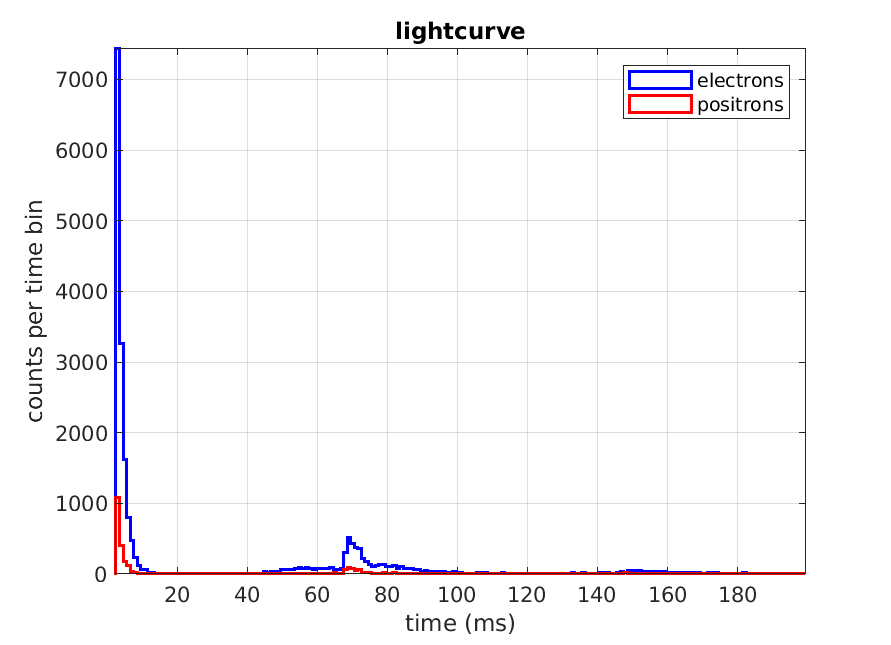
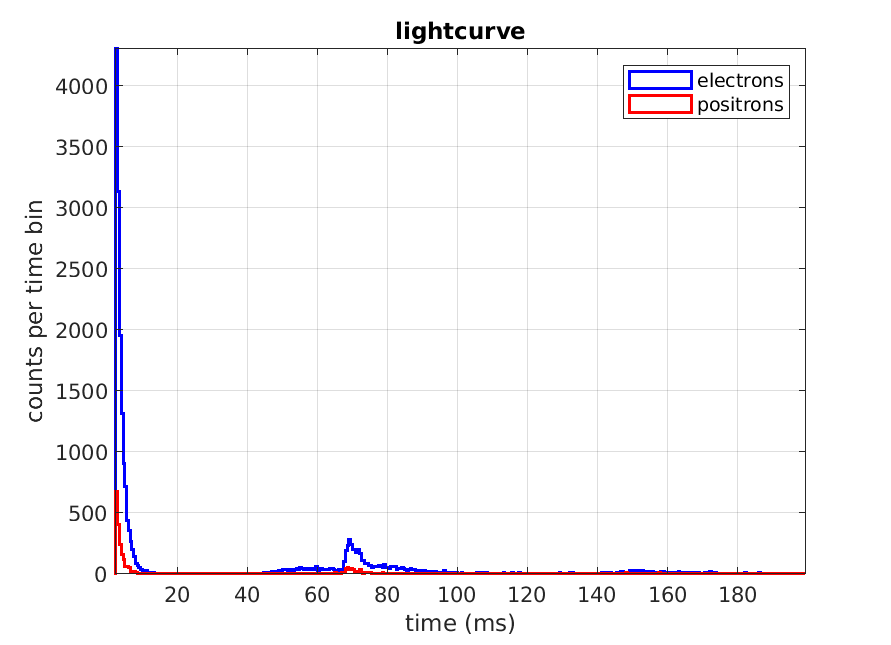
added lightcurve plot

diff --git a/stage1_process.m b/stage1_process.m
@@ -111,7 +111,7 @@ saveas(gcf,'energy_spectrum.png')
 
 % lightcurves
 figure(3)
-time_grid = min(times):1:max(times);
+time_grid = min(times):0.5:max(times);
 [lc_e,~] = histcounts(times(type==11 & tk),time_grid);
 [lc_p,~] = histcounts(times(type==-11 & tk),time_grid);
 
